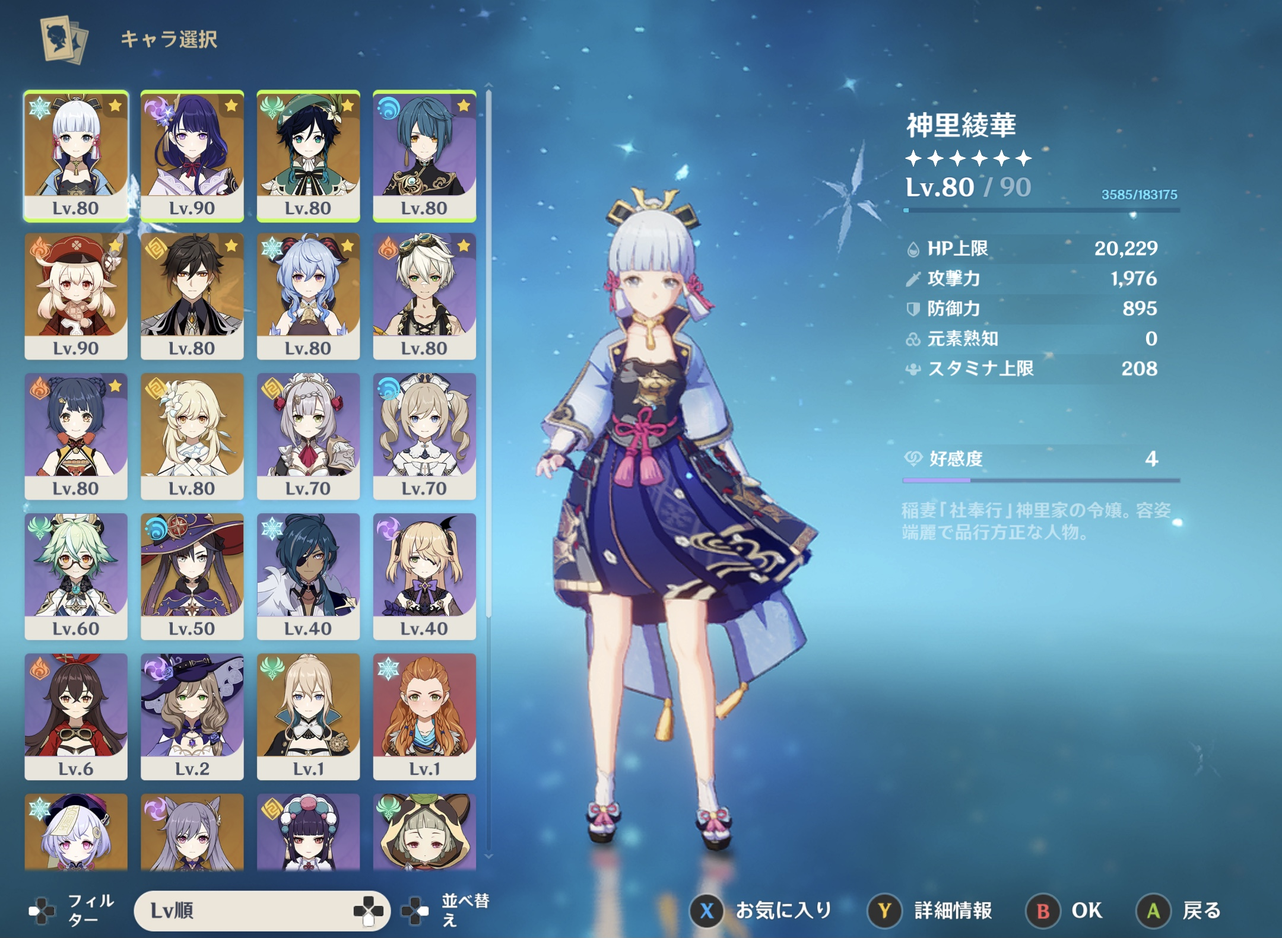
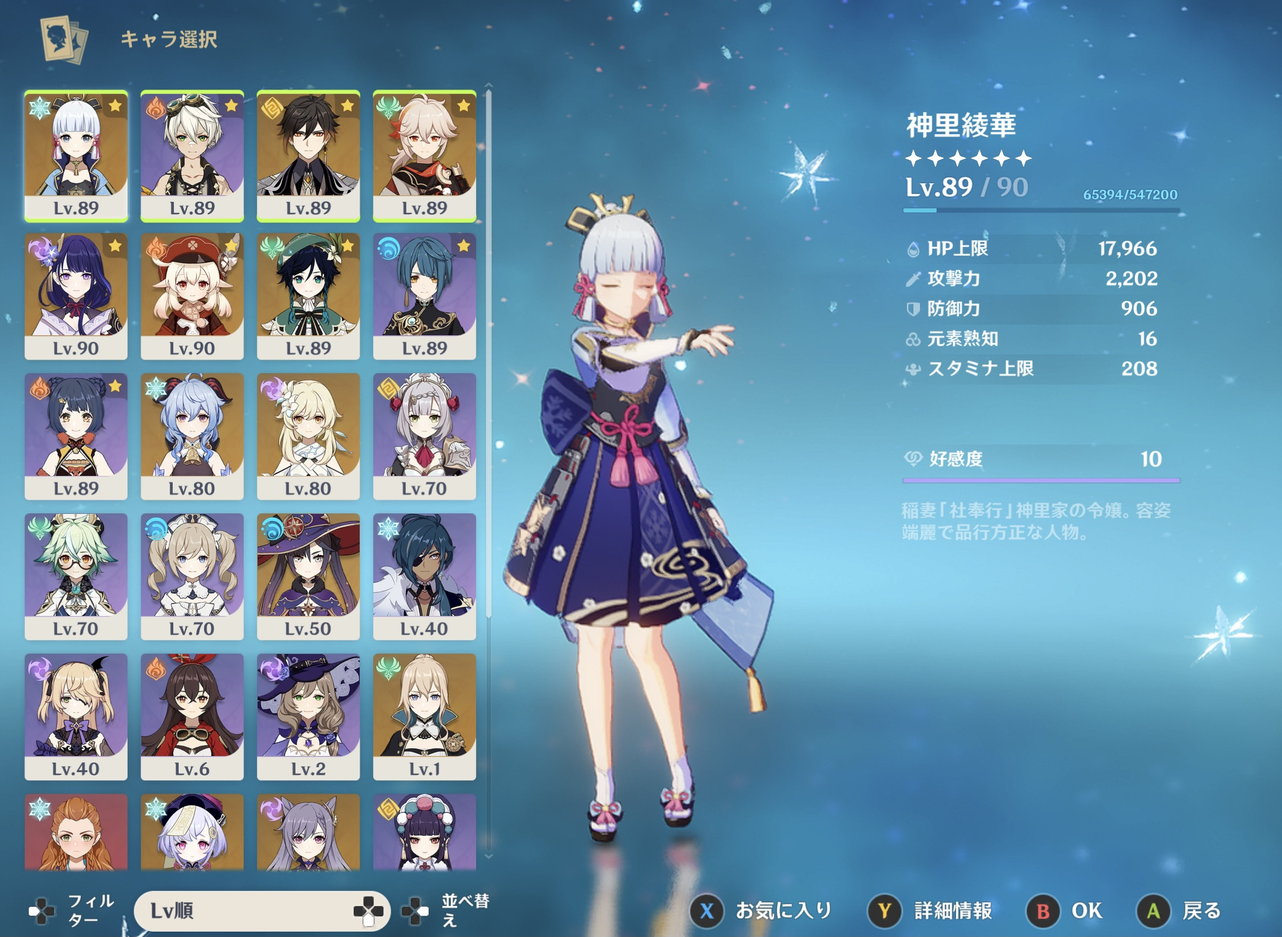
fix

diff --git a/content/games/genshin/index.md b/content/games/genshin/index.md
@@ -77,11 +77,9 @@ header_image = "/games/genshin.jpg"
 |---|---|---|---|---|---|
 |2021|06|4,000|-3,000|1,000|クレー|
 |2021|09|15,000|-7,000|8,000|雷電|
-|2021|12|22,000|0|22,000||
 |2022|01|28,000|-23,000|5,000|鍾離, 甘雨|
-|2022|03|15,000|0|15,000||
 |2022|04|20,000|-20,000|0|ウェンティ, 綾華|
-|2022|05|7,000|0|7,000||
+|2022|07|17,000|-1,000|16,000|万葉|
 
 <a href="/games/genshin/genshin_chara.png"><img src="/games/genshin/genshin_chara.png"></a>
 
@@ -161,9 +159,9 @@ header_image = "/games/genshin.jpg"
 |行秋|89|1|12|12|
 |香菱|80|1|4|12|
 |綾華|89|9|9|9|
-|ウェンティ(予定)|89|1|9|10|
-|万葉(予定)|89|1|10|10|
-|ベネット(予定)|89|1|12|12|
+|ウェンティ|89|1|9|10|
+|万葉|89|1|9|10|
+|ベネット|89|1|12|12|
 
 #### クレー
 
@@ -219,6 +217,11 @@ header_image = "/games/genshin.jpg"
 
 <a href="/games/genshin/genshin_chara_ganyu_fix.png"><img src="/games/genshin/genshin_chara_ganyu_fix.png"></a>
 
+#### 万葉
+
+<a href="/games/genshin/genshin_chara_kazuha.png"><img src="/games/genshin/genshin_chara_kazuha.png"></a>
+
+
 #### 行秋
 
 <a href="/games/genshin/genshin_chara_xingqiu.png"><img src="/games/genshin/genshin_chara_xingqiu.png"></a>
@@ -246,7 +249,7 @@ https://shinshin.moe
 
 |元素|キャラ1|キャラ2|保有|
 |---|---|---|---|
-|風|**万葉**|ウェンティ|--/無凸|
+|風|万葉|ウェンティ|無凸/無凸|
 |岩|鍾離||無凸|
 |雷|雷電||無凸|
 |草|||--|
@@ -288,7 +291,7 @@ https://shinshin.moe
 
 |元素|神|キャラ|保有|
 |---|---|---|---|
-|風|ウェンティ|万葉|無凸/--|
+|風|ウェンティ|万葉|無凸/無凸|
 |岩|鍾離|**???**|無凸/--|
 |雷|雷電|**???**|無凸/--|
 |草|**???**|**???**|--/--|
